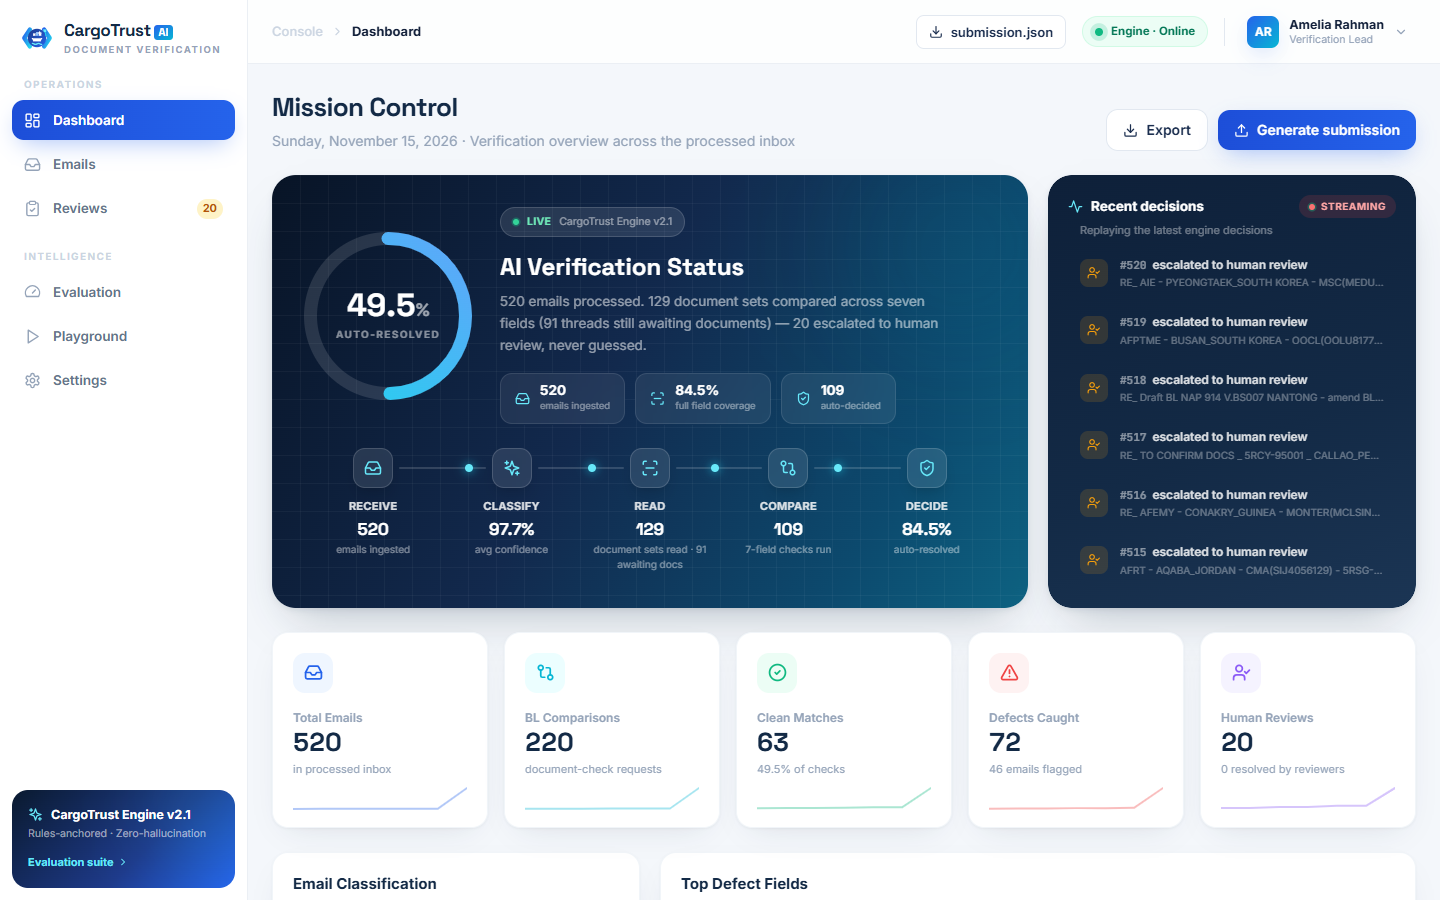
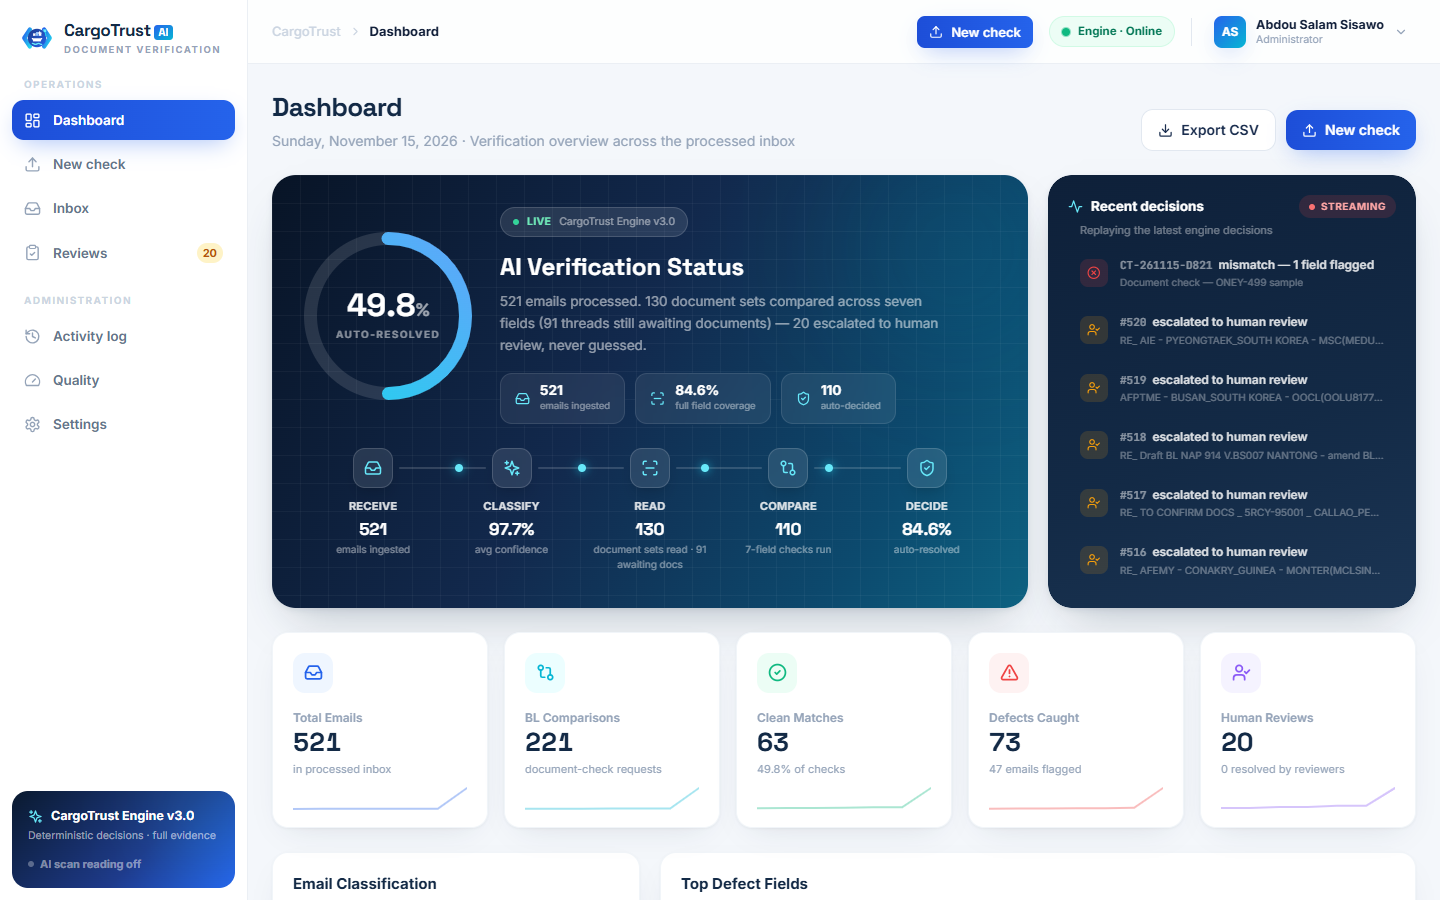
Refresh screenshots; engine version label; tidy landing hero

diff --git a/src/app/page.tsx b/src/app/page.tsx
@@ -190,14 +190,13 @@ export default function LandingPage() {
             </h1>
             <p className="text-[16px] text-slate-500 leading-relaxed mt-5 max-w-xl">
               CargoTrust AI reads a shipping operations inbox, tells document-check requests apart from invoices,
-              SI submissions and spam, reads each Shipping Instruction and draft Bill of Lading — text, PDF, scan,
-              Word or Excel — and catches discrepancies in the seven critical fields before the draft is finalized.
+              SI submissions and spam, reads each Shipping Instruction and draft Bill of Lading — PDF, Word, Excel,
+              a scan or a phone photo — and catches discrepancies in the seven critical fields before the BL is issued.
               When it cannot decide, it asks a human instead of guessing.
             </p>
             <div className="flex flex-wrap gap-3 mt-8">
               <Link href="/login" className="btn-primary text-[15px] py-3 px-6">Sign in to the console <Icon name="arrowRight" size={16}/></Link>
               <a href="#how" className="btn-ghost text-[15px] py-3 px-6"><Icon name="play" size={15}/>How it works</a>
-              <a href="#how" className="btn-ghost text-[15px] py-3 px-6">How it works</a>
             </div>
             <p className="text-[11.5px] text-slate-400 mt-3">Accounts are created by your administrator.</p>
             <div className="flex flex-wrap gap-x-8 gap-y-4 mt-8">
@@ -557,4 +556,4 @@ export default function LandingPage() {
   );
 }
 
-const PRODUCT_PLACEHOLDER = { engine: 'CargoTrust Engine v2.1' };
+const PRODUCT_PLACEHOLDER = { engine: 'CargoTrust Engine v3.0' };

diff --git a/src/app/(console)/dashboard/page.tsx b/src/app/(console)/dashboard/page.tsx
@@ -4,7 +4,7 @@ import { useSession, can } from '@/components/shell';
 import { useEffect, useMemo, useState } from 'react';
 import Link from 'next/link';
 import type { DashboardMetrics } from '@/lib/metrics';
-import { CATEGORIES, type Status } from '@/data/taxonomy';
+import { CATEGORIES, PRODUCT, type Status } from '@/data/taxonomy';
 import { Icon } from '@/components/icons';
 import { M, useCountUp, Ring, Donut, StatusBadge, CategoryBadge, ReasonBadge, Skeleton, useToast } from '@/components/ui';
 import { cx, fmt } from '@/lib/utils';
@@ -183,7 +183,7 @@ export default function DashboardPage() {
                   <div className="inline-flex items-center gap-2 rounded-full bg-white/10 border border-white/15 px-3 py-1.5">
                     <span className="w-1.5 h-1.5 rounded-full bg-emerald-400 animate-pulseDot"/>
                     <span className="text-[10.5px] font-bold tracking-wide text-emerald-300 uppercase whitespace-nowrap">Live</span>
-                    <span className="text-[10.5px] text-white/50 whitespace-nowrap">CargoTrust Engine v2.1</span>
+                    <span className="text-[10.5px] text-white/50 whitespace-nowrap">{PRODUCT.engine}</span>
                   </div>
                   <h2 className="font-display text-[24px] font-bold text-white mt-3">AI Verification Status</h2>
                   <p className="text-white/55 text-[13.5px] leading-relaxed mt-1.5 max-w-md">
